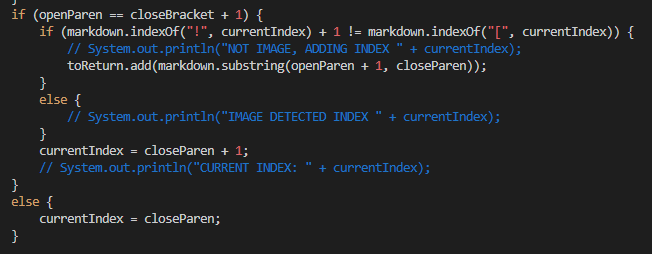
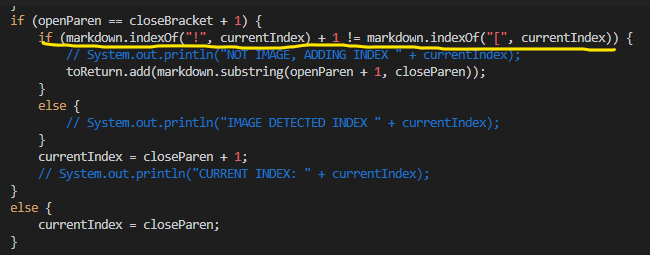
add highlight to bug images in lab report 5

diff --git a/lab-report-5-week-10.md b/lab-report-5-week-10.md
@@ -22,7 +22,7 @@ The bug that causes this error in my code is in the code below.
 
 ![482 bug](./5-1-bug.png)
 
-This segment of code is supposed to check whether or not a given link is an image or not; however, if the given link is not an image and is the first link in the file, this code prevents the link from being added to the final list of links, since the indices of the characters ```!``` and ```[``` are 1 apart. Therefore, the link is not added even though it should be recognized as a link by the program.
+This segment of code is supposed to check whether or not a given link is an image or not; however, if the given link is not an image and is the first link in the file, the underlined code prevents the link from being added to the final list of links, since the indices of the characters ```!``` and ```[``` are 1 apart. Therefore, the link is not added even though it should be recognized as a link by the program.
 
 ## File 2. 577.md
 
@@ -40,4 +40,4 @@ The bug that causes this error in my code is in the code below.
 
 ![577 bug](./5-2-bug.png)
 
-The bug in the given implementation that causes this erronerous output is the fact that this implementation does not check if a potential link is an image, i.e. the ```[``` character is preceded by the character ```!```. Since this implementation does not check for this, its output for this file is incorrect while my own implementation is correct.
+The bug in the given implementation that causes this erronerous output is the fact that this implementation does not check if a potential link is an image, i.e. the ```[``` character is preceded by the character ```!```; such a check should be added around where the yellow highlight appears in the image. Since this implementation does not check for this, its output for this file is incorrect while my own implementation is correct.
